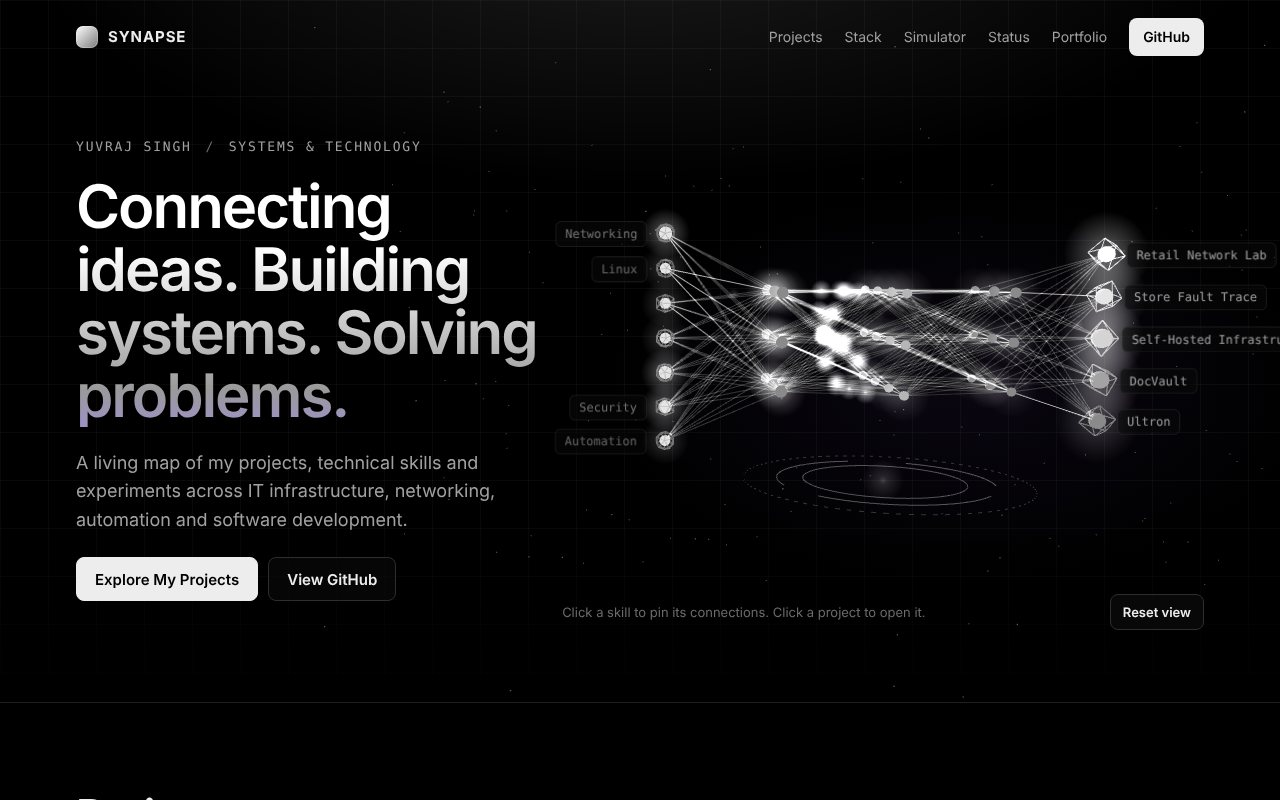
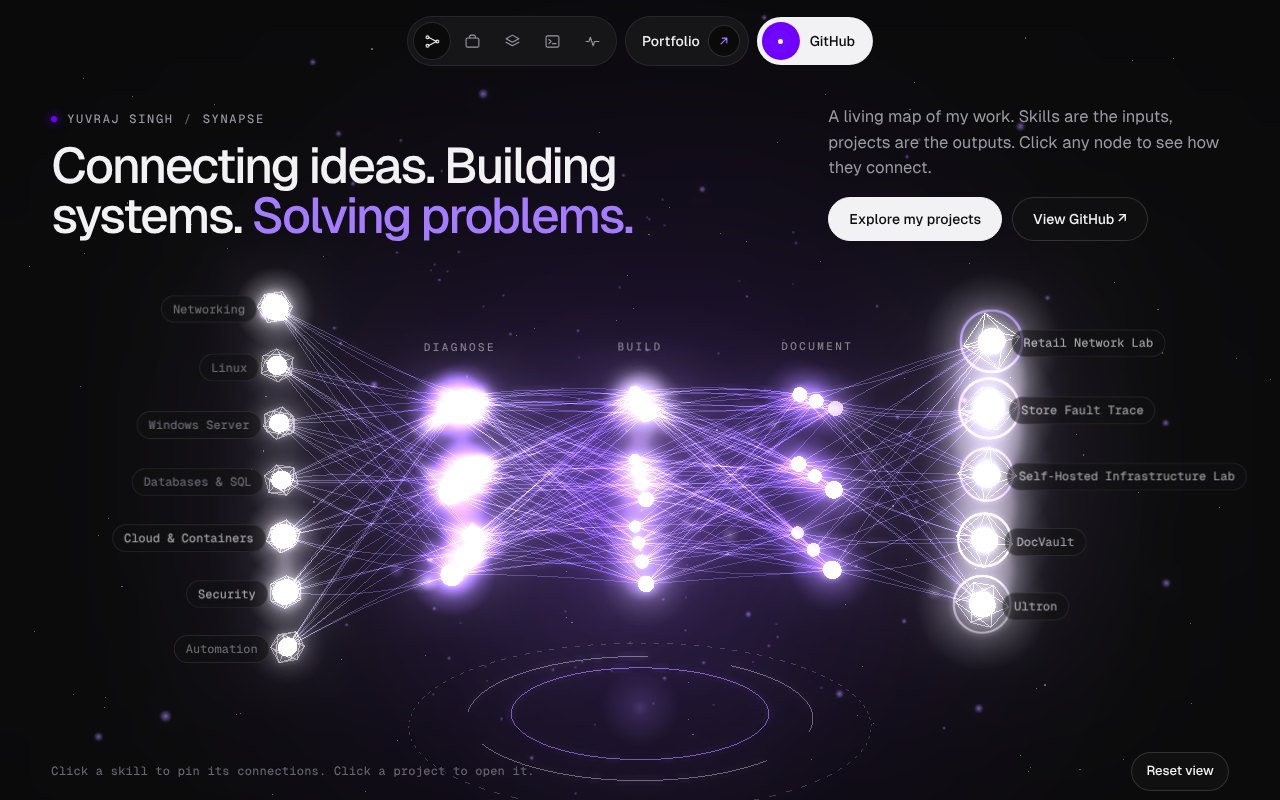
Update the Synapse screenshot (#3)
Fresh screenshot of the redesigned Synapse hero (glowing 3D network) in the Synapse feature card.

Claude-Session: https://claude.ai/code/session_019kmPenSZxbY21PCDb1knSY

diff --git a/index.html b/index.html
@@ -394,7 +394,7 @@ footer{margin:0 max(10px,env(safe-area-inset-left,0px));border:1px solid var(--l
         <ul><li>Click a skill to light up every project it powers</li><li>Incident simulator with three real-style tickets to solve</li><li>Live status checks for every hosted demo</li></ul>
         <div class="btns"><a class="btn ind" href="https://ysingh2103.github.io/synapse/" target="_blank" rel="noopener">Open Synapse ↗</a><a class="btn" href="https://github.com/ysingh2103/synapse" target="_blank" rel="noopener">Source</a></div>
       </div>
-      <div class="img"><img src="shots/synapse-hero.jpg" alt="Synapse home page with its 3D skills-to-projects network" loading="lazy"></div>
+      <div class="img"><img src="shots/synapse-hero.jpg?v=2" alt="Synapse home page with its glowing 3D skills-to-projects network" loading="lazy"></div>
     </article>
 
     <div class="filters" role="group" aria-label="Filter projects" id="filters">
